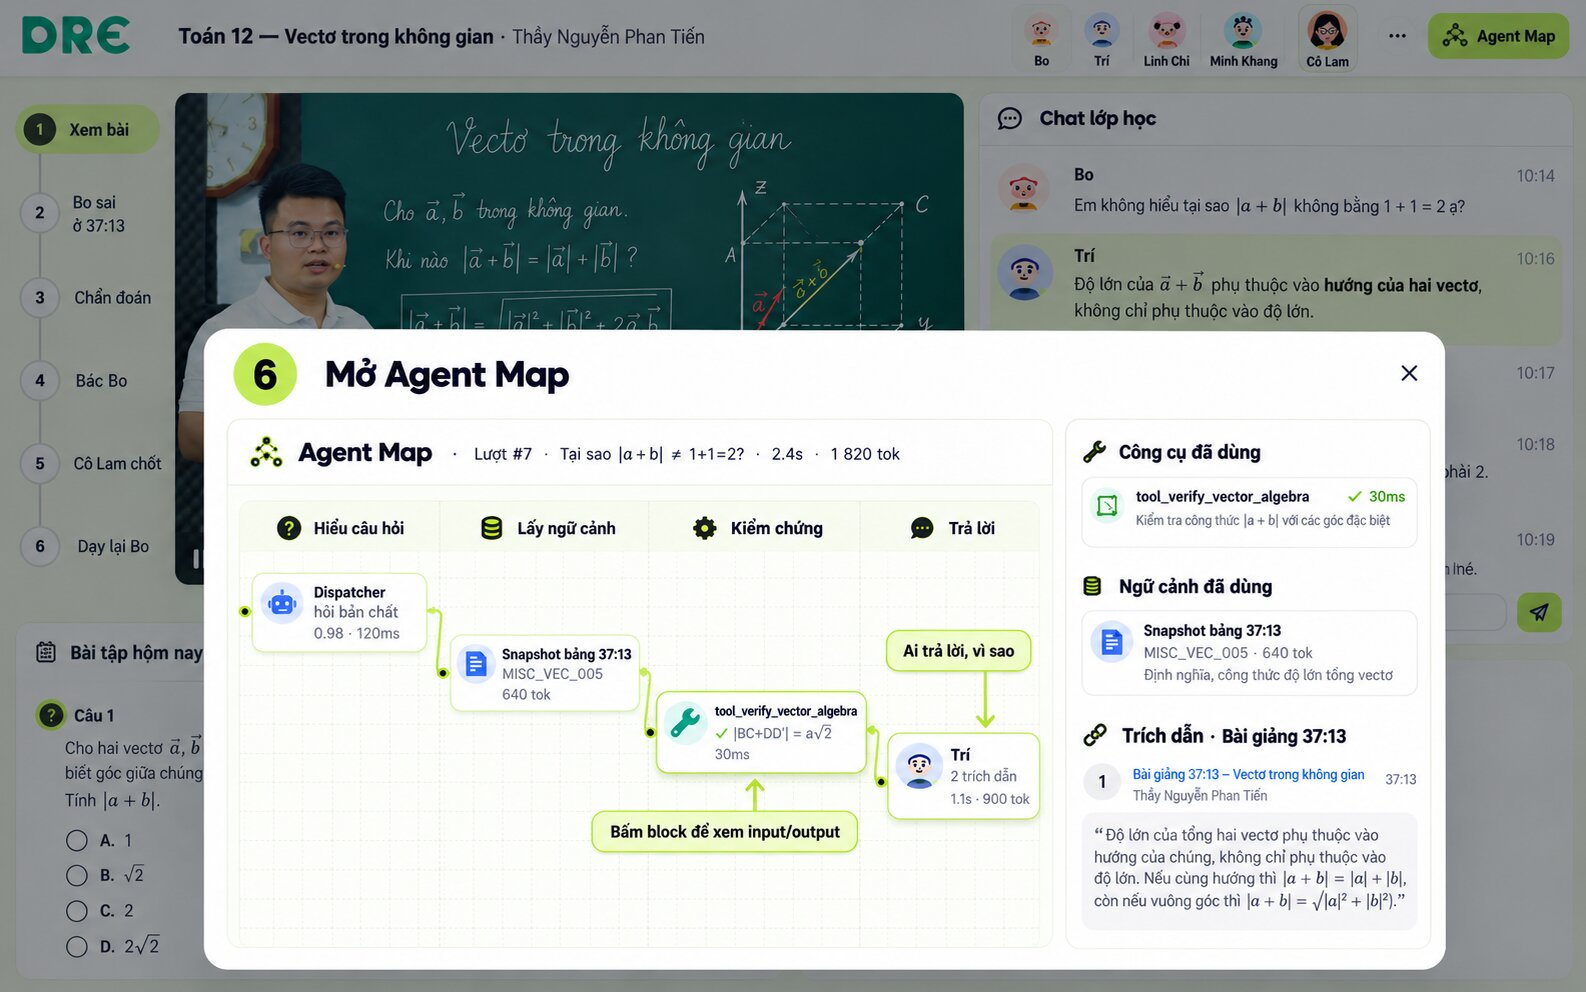
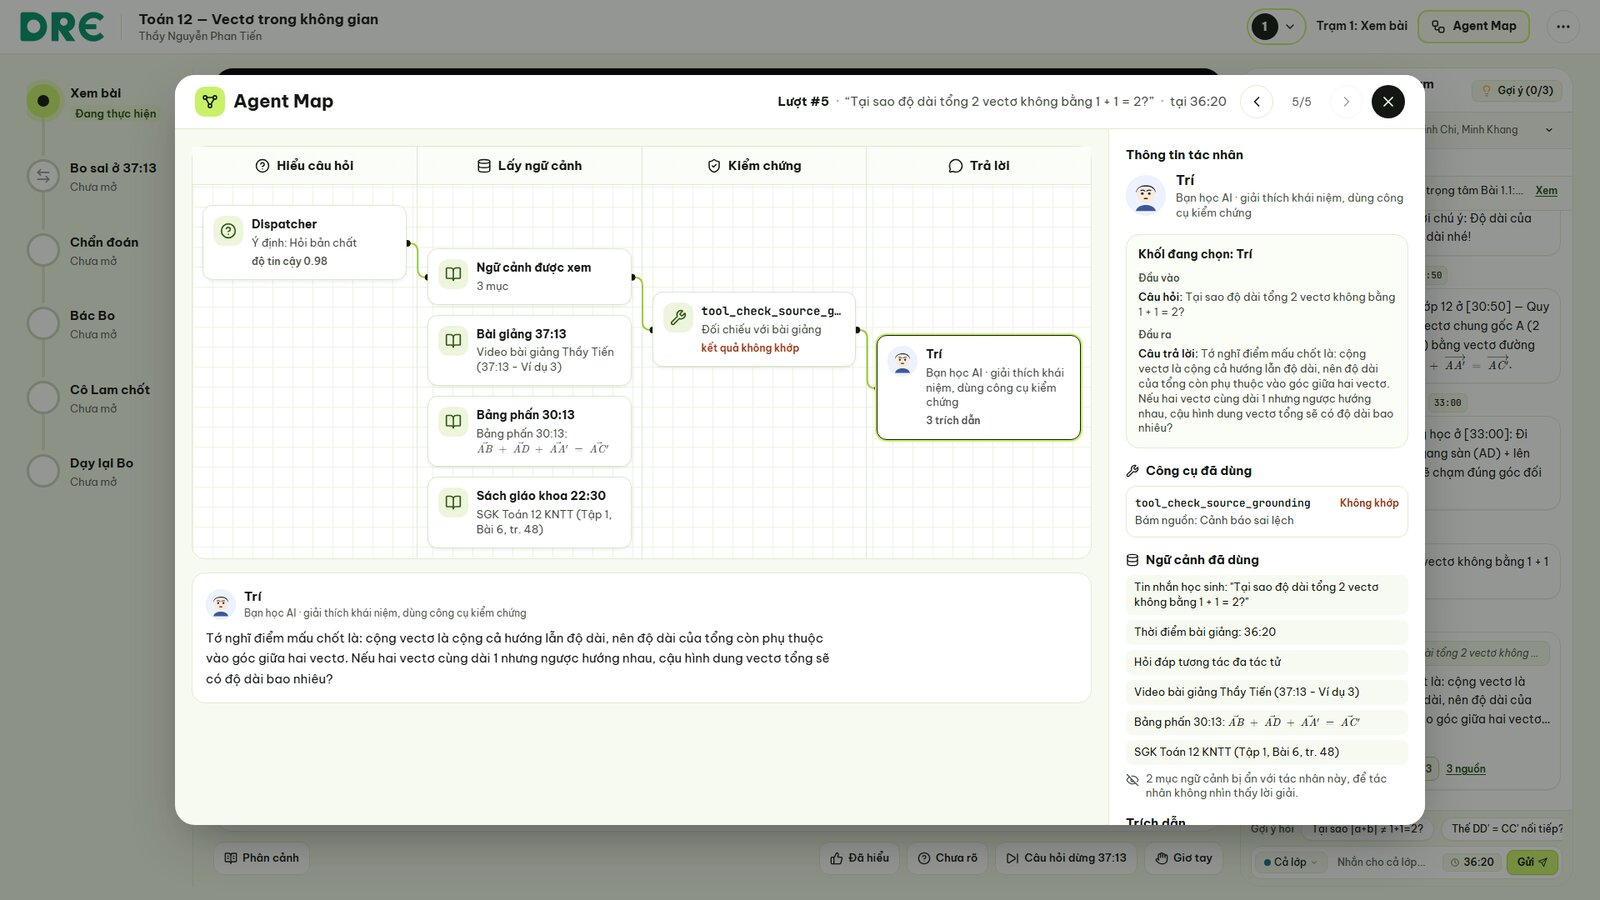
docs(guide): use real app screenshots and match the shipped checkpoint flow

diff --git a/docs/guide/HUONG_DAN_SU_DUNG.md b/docs/guide/HUONG_DAN_SU_DUNG.md
@@ -6,7 +6,7 @@ Bài demo là *Toán 12, Vectơ trong không gian*, thầy Nguyễn Phan Tiến.
 
 Ảnh tổng hợp cả 7 bước: [images/huong-dan-tong-hop.jpg](images/huong-dan-tong-hop.jpg)
 
-> Ảnh trong tài liệu là ảnh minh họa của bố cục "Tuyến hành trình dọc" đã được duyệt. Giao diện thật có thể lệch đôi chút về chữ và khoảng cách.
+> Ảnh trong tài liệu được chụp từ app thật, chạy với backend AI thật, ở độ phân giải 1920×1080. Lời thoại của các bạn AI có thể khác đôi chút giữa các lần chạy.
 
 ---
 
@@ -48,28 +48,33 @@ Bốn nhân vật trong lớp học:
    - Hỏi bản chất thì **Trí** trả lời, kèm công cụ kiểm chứng.
    - Hỏi công thức hay mẹo nhớ thì **Linh Chi**.
    - Bí bài thì **Trợ giảng An** gợi ý từng bậc.
-3. Câu trả lời có chip **"✓ đã kiểm · 37:13"** nghĩa là đã được công cụ toán kiểm. Bấm chip để xem chi tiết (xem Bước 6).
+3. Câu trả lời có chip bằng chứng viền xanh (ví dụ **"✓ Đã kiểm chứng · 37:13"**) nghĩa là đã được công cụ toán kiểm. Bấm chip để xem chi tiết (xem Bước 6).
 4. Câu hỏi nằm ngoài bài giảng sẽ được nhắc quay lại đúng đoạn trong video.
 
 ## Bước 3. Dừng ở 37:13: Bo sai
 
 ![Bước 3: dừng ở 37:13](images/03-dung-3713.jpg)
 
-1. Tới **37:13**, video tự dừng và tuyến hành trình chuyển sang ga **Bo sai ở 37:13**.
-2. **Cô Lam** mở câu hỏi của Ví dụ 3: hình lập phương cạnh 1, tính |BC + DD'|.
-3. Chọn đáp án của bạn. Bo sẽ chen vào bằng một cách giải tắt nghe rất xuôi tai, nhưng sai.
+1. Tới **37:13**, hoặc khi bạn bấm **Tới điểm dừng 37:13**, video dừng lại và tuyến hành trình chuyển sang ga **Chẩn đoán**.
+2. Trong chat:
+   - **Bo** đưa ra cách tính tắt của mình.
+   - **Trí** tỏ ra nghi ngờ.
+   - **Cô Lam** gợi một câu: hãy để ý hướng của hai vectơ.
+3. Thẻ **"Việc của bạn bây giờ"** hiện câu hỏi của Ví dụ 3 (hình lập phương cạnh 1, tính |BC + DD'|) với 3 cách tính. Chọn một cách rồi bấm **Xác nhận đáp án**. Trong lúc chờ chấm, thẻ ghi "Đang chấm câu trả lời của bạn…".
 
-> Chọn đúng vẫn chưa xong. Bo sẽ thử bạn bằng một cái bẫy, vì chọn đúng chưa chắc đã là hiểu.
+> Chọn xong chưa phải là hết.
+> - **Bạn chọn sai:** Bo sẽ *đồng ý với bạn*. Bạn phải tự kiểm lại.
+> - **Bạn chọn đúng:** Bo sẽ *gài bẫy*, bằng một cách tính tắt hoặc một trường hợp biên. Chọn đúng chưa chắc đã là hiểu.
 
 ## Bước 4. Bác Bo
 
 ![Bước 4: bác Bo](images/04-bac-bo.jpg)
 
-Thẻ việc cần làm mở ra thành **bàn đối chất 3 ô**:
+Video thu lại thành một dải mỏng, vẫn giữ mốc 37:13. Thẻ việc cần làm mở ra thành **bàn đối chất 3 ô**:
 
 | Ô | Nội dung |
 |---|---|
-| **Bo nói** | Lời giải của Bo. Bước sai bị gạch đỏ. |
+| **Bo nói** | Lời của Bo và các bước giải của Bo. Nếu Bo gài cách tính tắt, bước sai bị gạch đỏ. |
 | **Lượt của bạn** | Viết vì sao Bo sai, ví dụ: *"BC và DD' không cùng hướng, phải cộng vectơ: BC + CC' = BC', nên độ dài là √2."* |
 | **Cô Lam chốt** | Khóa lại cho tới khi bạn bác được Bo. |
 
@@ -109,11 +114,10 @@ Bấm vào một block để xem đầu vào và đầu ra của bước đó. T
 ![Bước 7: dạy lại Bo](images/07-day-lai-bo.jpg)
 
 1. Ở **Trạm 2 · Sổ tay** và **Trạm 3 · Đoán**, bạn luyện tiếp: soi lỗi trong một bài giải, rồi dự đoán, kiểm chứng và giải thích.
-2. Ở **Trạm 4 · Dạy kèm**, bạn giảng lại quy tắc cho Bo bằng lời của mình. Tự dạy lại là cách nhớ lâu nhất.
-3. Thẻ **Kết quả buổi học** cho biết:
-   - ngộ nhận bạn đã tự sửa;
-   - bậc tư duy Bloom bạn đạt được;
-   - lịch ôn lại.
+2. Ở **Trạm 4 · Dạy kèm**, tuyến hành trình sáng ở ga **Dạy lại Bo**, gồm hai nhiệm vụ:
+   - **Nhiệm vụ 1:** giúp Bo chọn bí kíp dễ nhớ nhất (của Minh Khang hoặc Linh Chi). Tự dạy lại là cách nhớ lâu nhất.
+   - **Nhiệm vụ 2:** tự đặt một bài thử thách cho cả nhóm.
+3. Bấm **Xem tổng kết hành trình** để xem lại những gì bạn đã làm trong buổi học.
 
 ---
 
